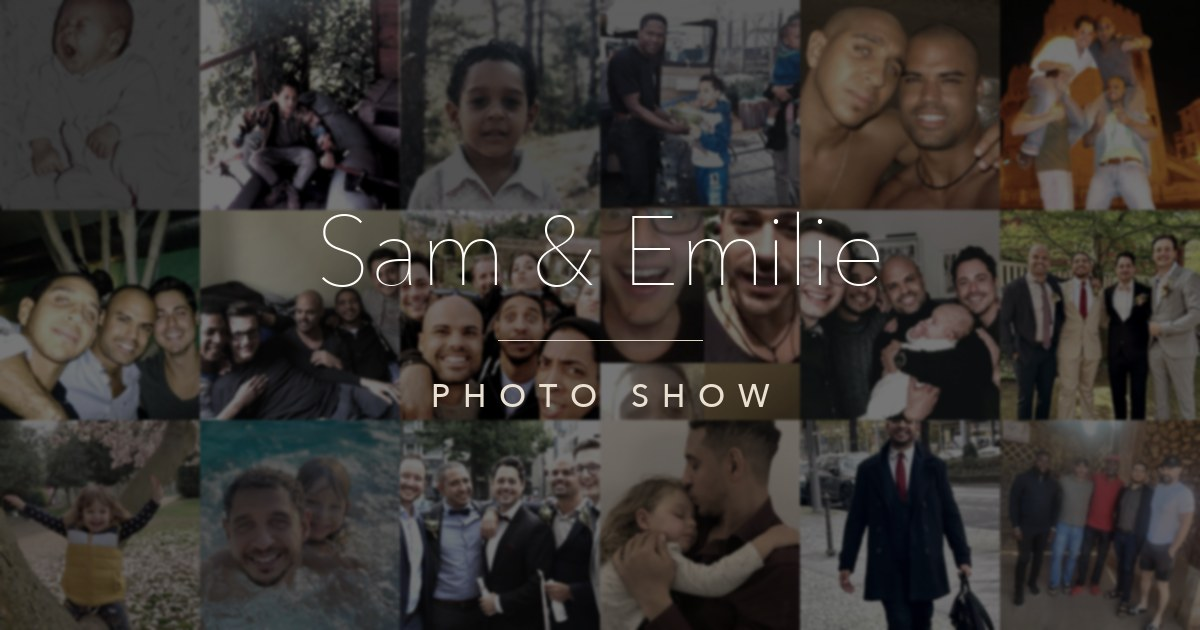
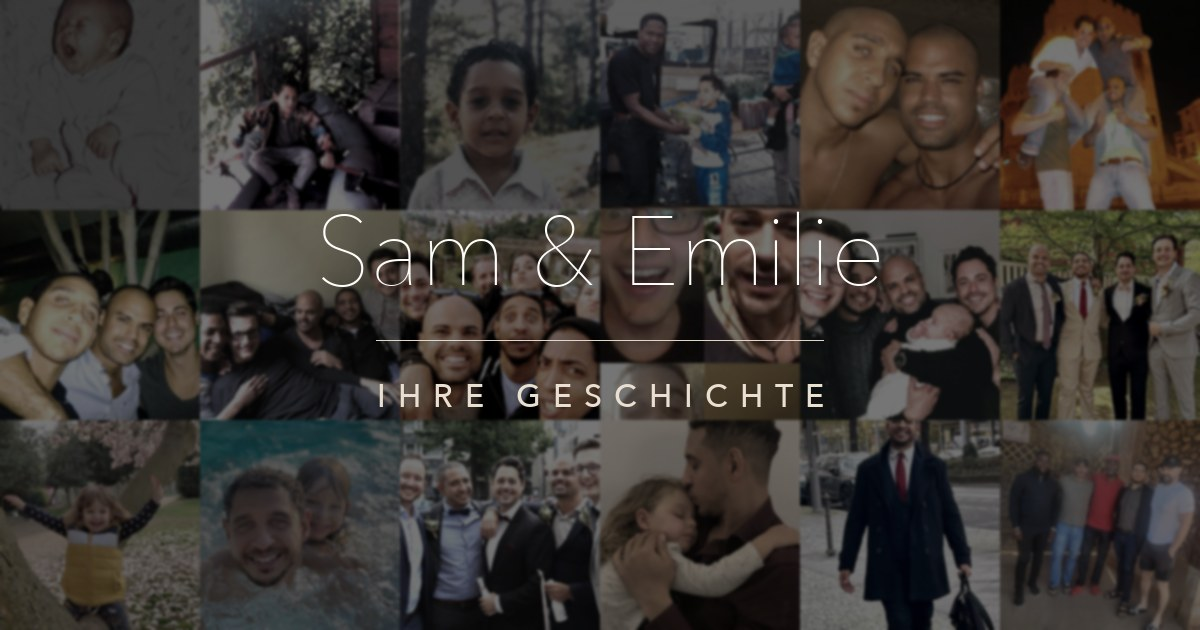
Card title: "Sam & Emilie – Ihre Geschichte"

Changed region(s): [[0.3083, 0.6032, 0.6783, 0.6635]]

diff --git a/index.html b/index.html
@@ -3,15 +3,15 @@
 <head>
 <meta charset="utf-8">
 <meta name="viewport" content="width=device-width,initial-scale=1,viewport-fit=cover">
-<title>Sam &amp; Emilie Photo Show</title>
+<title>Sam &amp; Emilie – Ihre Geschichte</title>
 <meta name="description" content="Von den ersten Tagen bis heute.">
 <link rel="icon" href="favicon.ico" sizes="any">
 <link rel="icon" type="image/png" sizes="32x32" href="favicon-32.png">
 <link rel="icon" type="image/png" sizes="192x192" href="favicon-192.png">
 <link rel="apple-touch-icon" href="apple-touch-icon.png">
 <meta property="og:type" content="website">
-<meta property="og:site_name" content="Sam &amp; Emilie Photo Show">
-<meta property="og:title" content="Sam &amp; Emilie Photo Show">
+<meta property="og:site_name" content="Sam &amp; Emilie – Ihre Geschichte">
+<meta property="og:title" content="Sam &amp; Emilie – Ihre Geschichte">
 <meta property="og:description" content="Von den ersten Tagen bis heute.">
 <meta property="og:locale" content="de_DE">
 <meta property="og:url" content="https://digitalmovementuk.github.io/sam-story-8c088e/">
@@ -20,9 +20,9 @@
 <meta property="og:image:type" content="image/jpeg">
 <meta property="og:image:width" content="1200">
 <meta property="og:image:height" content="630">
-<meta property="og:image:alt" content="Sam &amp; Emilie Photo Show">
+<meta property="og:image:alt" content="Sam &amp; Emilie – Ihre Geschichte">
 <meta name="twitter:card" content="summary_large_image">
-<meta name="twitter:title" content="Sam &amp; Emilie Photo Show">
+<meta name="twitter:title" content="Sam &amp; Emilie – Ihre Geschichte">
 <meta name="twitter:description" content="Von den ersten Tagen bis heute.">
 <meta name="twitter:image" content="https://digitalmovementuk.github.io/sam-story-8c088e/og.jpg">
 <meta name="theme-color" content="#0c0b0a">
